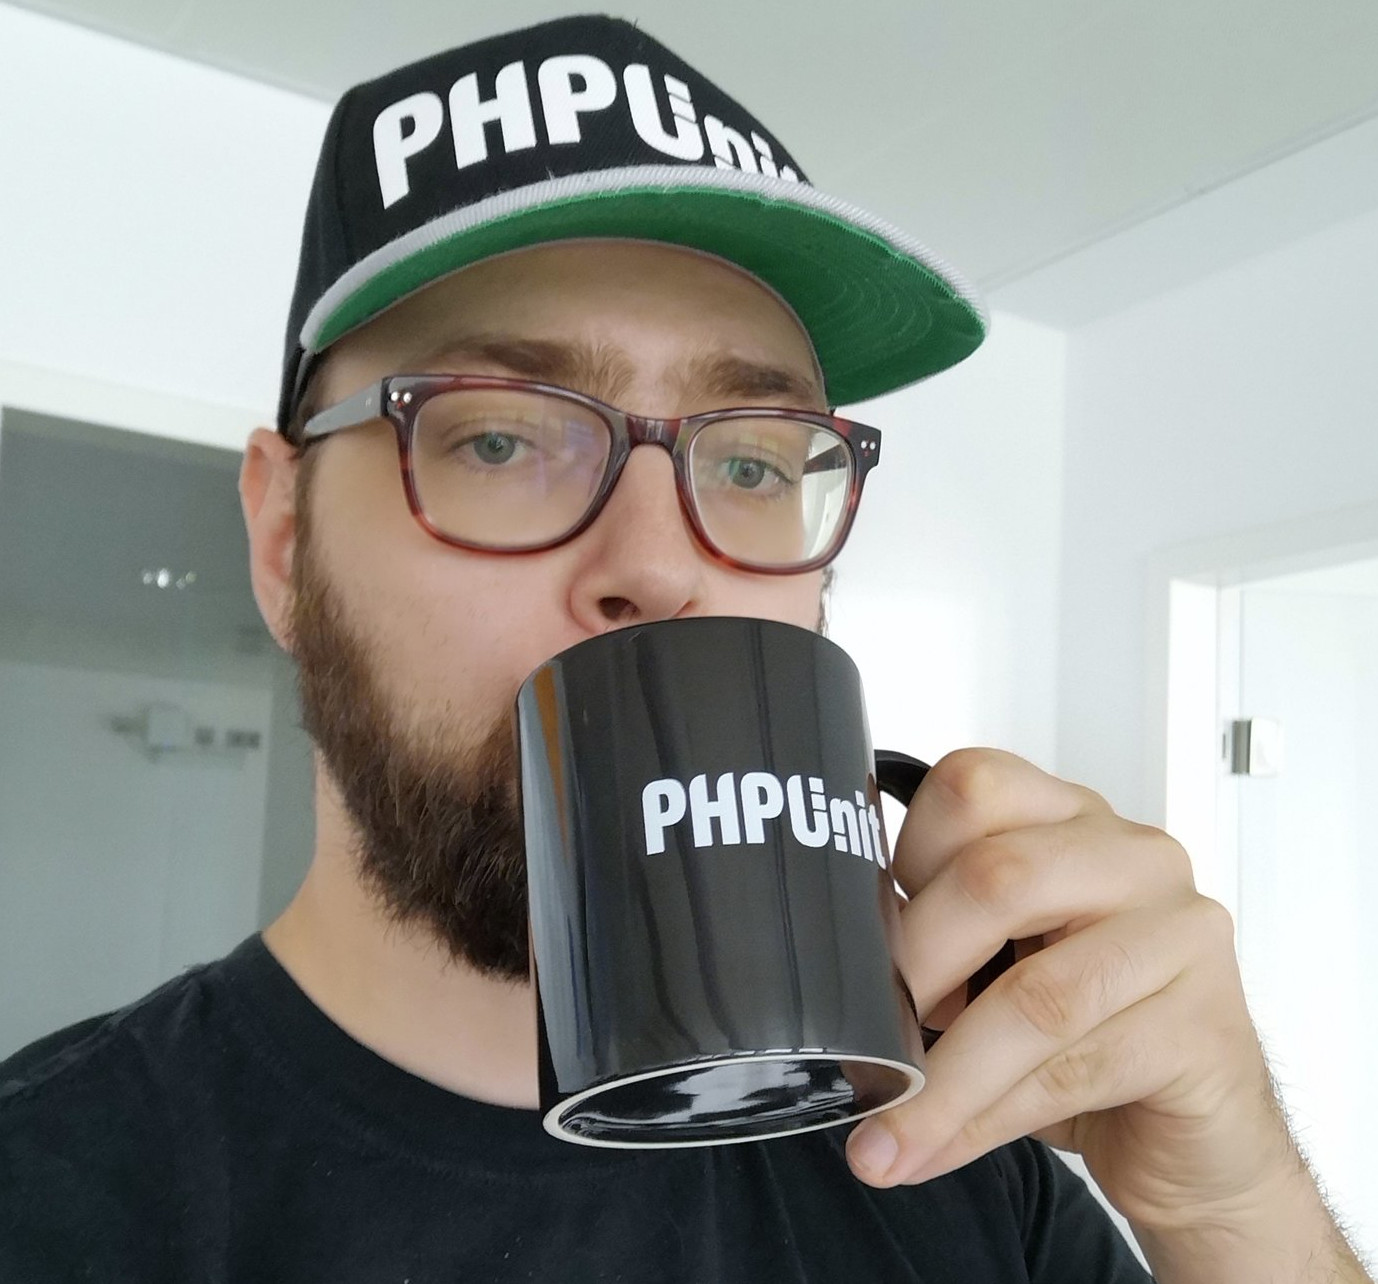
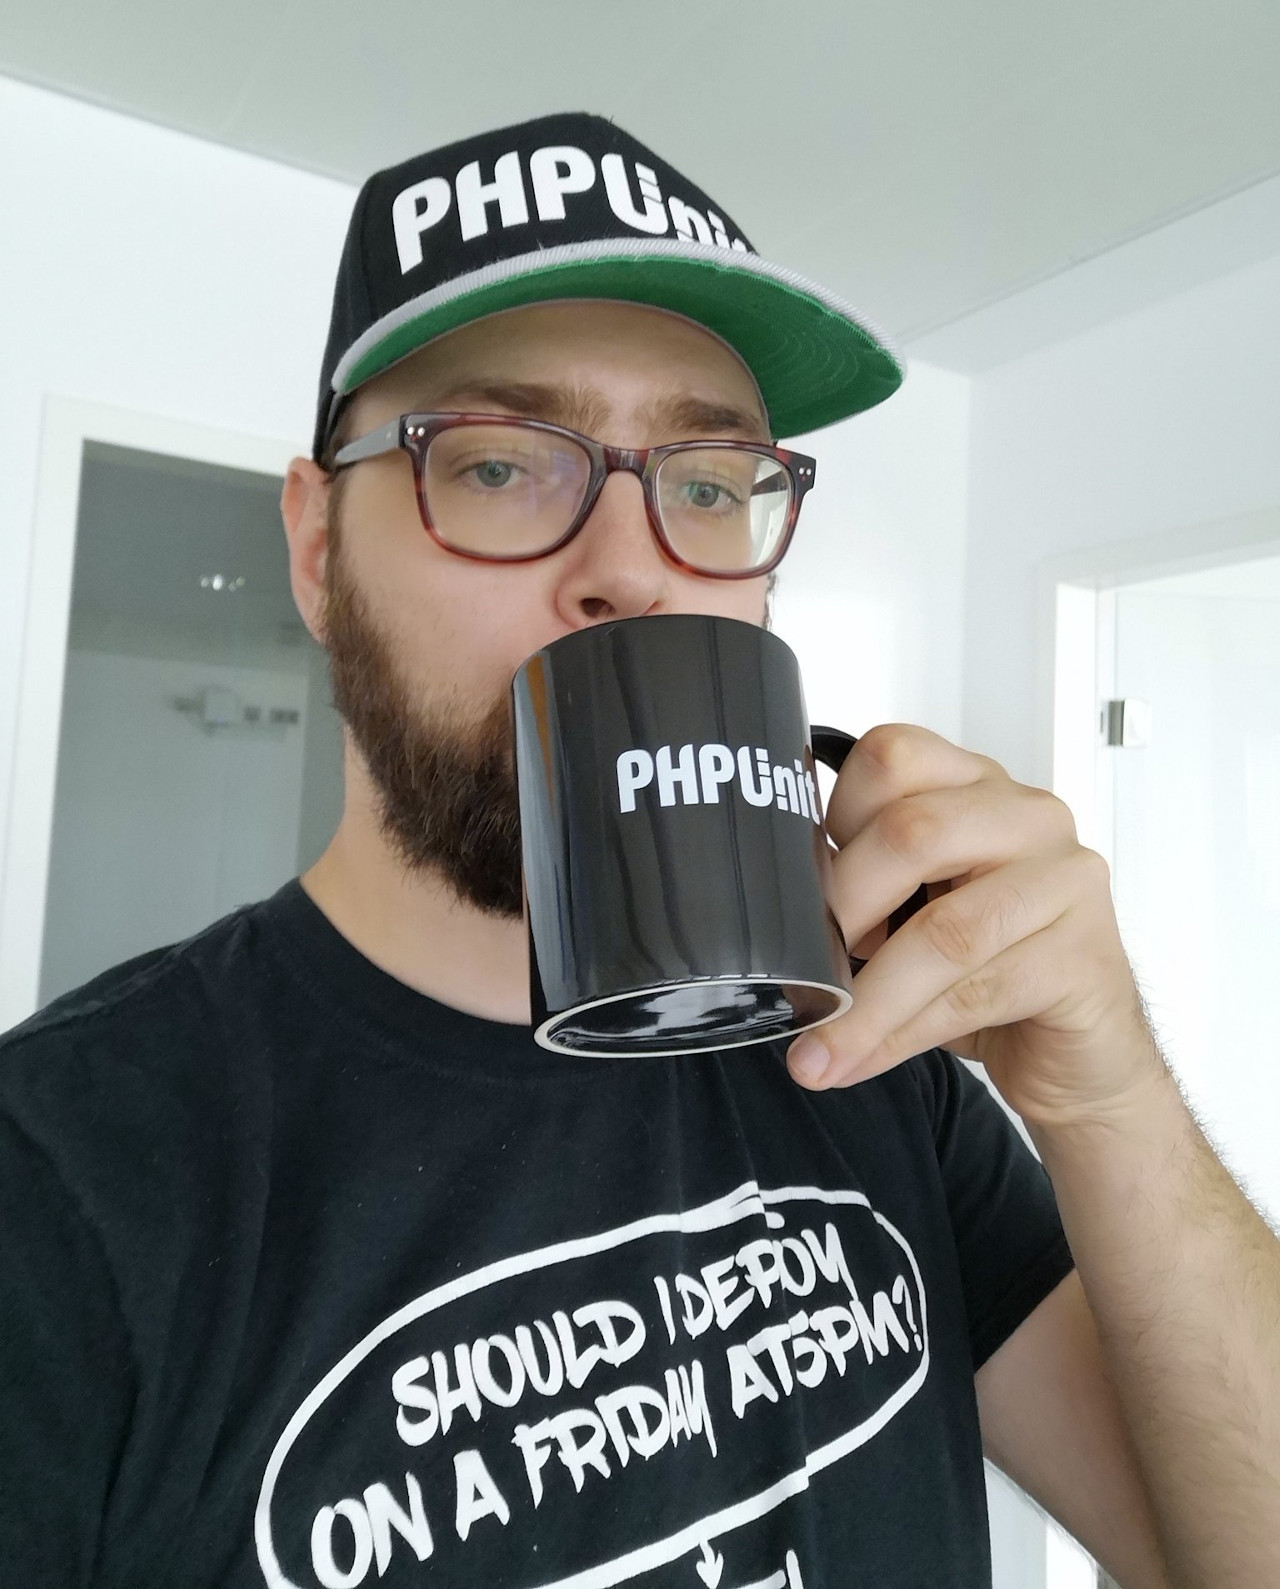
Add another tweet with image of cup in action

diff --git a/public/merchandise.html b/public/merchandise.html
@@ -40,8 +40,19 @@
       <img class="card-img-top" src="img/tweets/1165163522059329536.jpg" />
       <div class="card-body">
        <div class="card-text">
-        <blockquote class="blockquote">Go flood the world with <a href="https://twitter.com/phpunit">@phpunit</a> <a href="https://twitter.com/hashtag/swag">#swag</a> I already got mine 😁 <a href="https://twitter.com/hashtag/php">#php</a></blockquote>
+        <blockquote class="blockquote" style="height: 8rem;">Go flood the world with <a href="https://twitter.com/phpunit">@phpunit</a> <a href="https://twitter.com/hashtag/swag">#swag</a> I already got mine 😁 <a href="https://twitter.com/hashtag/php">#php</a></blockquote>
         <footer class="blockquote-footer"><a href="https://twitter.com/icanhazstring/status/1165163522059329536">Andreas Frömer (@icanhazstring)</a></footer>
+       </div>
+      </div>
+     </div>
+    </div>
+    <div class="col-md-4">
+     <div class="card">
+      <img class="card-img-top" src="img/tweets/1169499094047502336.jpg" />
+      <div class="card-body">
+       <div class="card-text">
+        <blockquote class="blockquote" style="height: 8rem;">Now, testing can start now with <a href="https://twitter.com/phpunit">@phpunit</a> <a href="https://twitter.com/hashtag/swag">#swag</a> ... but should i really press "start"??? #PHP</blockquote>
+        <footer class="blockquote-footer"><a href="https://twitter.com/SPresnac/status/1169499094047502336">Sascha Presnac (@SPresnac)</a></footer>
        </div>
       </div>
      </div>
